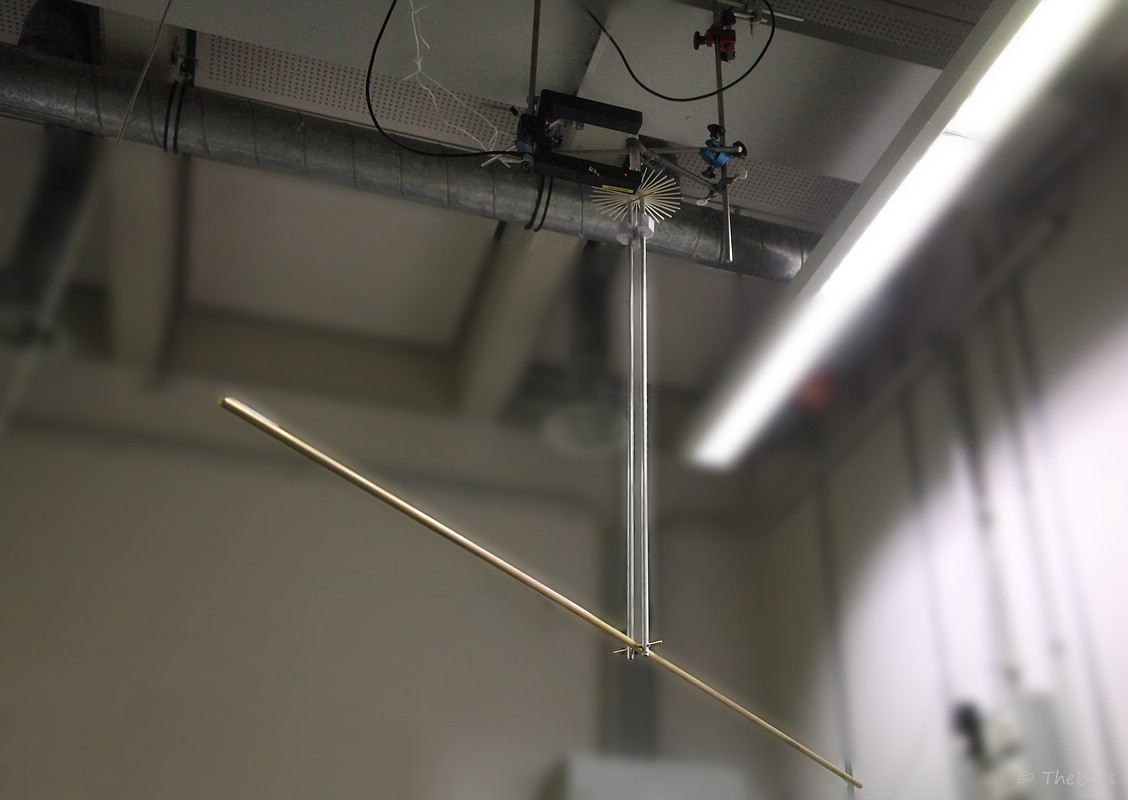
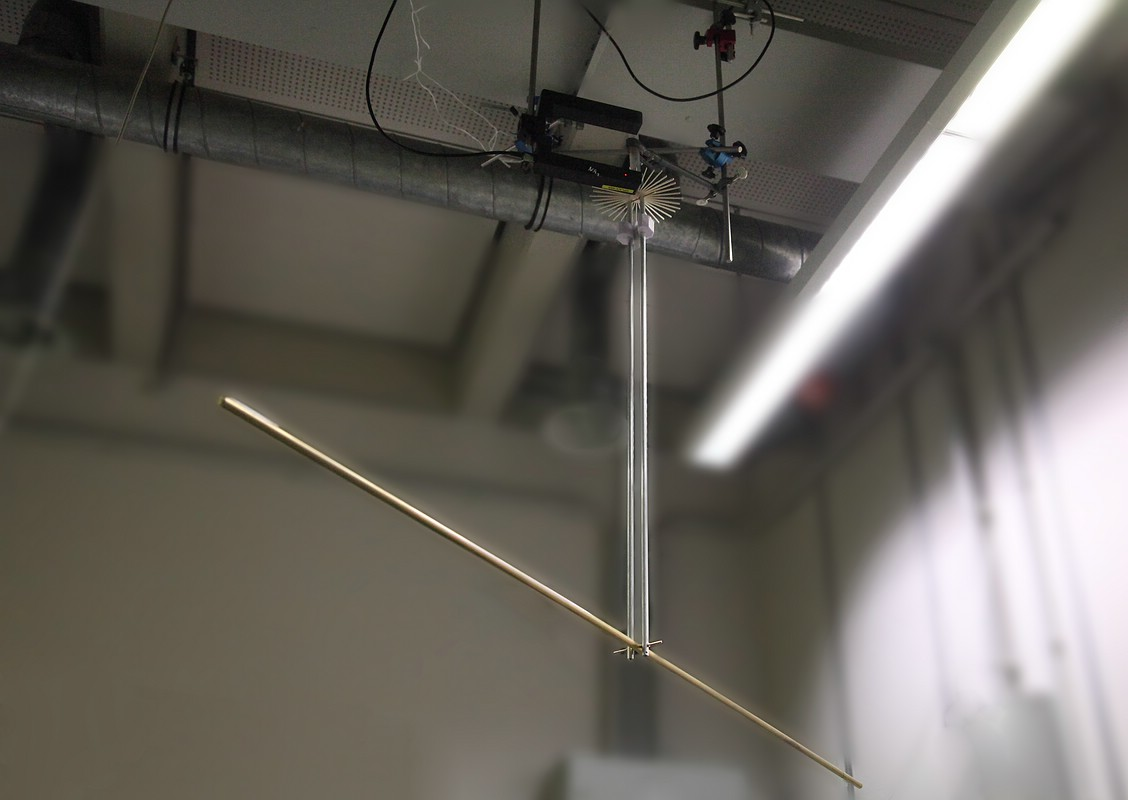
bild fertige platine

Changed region(s): [[0.8378, 0.875, 0.9309, 1.0]]

diff --git a/presentation/presentation.tex b/presentation/presentation.tex
@@ -85,8 +85,8 @@
 \frametitle{Elektronik I}
 \begin{figure}
 \begin{center}
-\includegraphics[width=0.8\textwidth]{./images/prIMG_7253crop.jpg}
-\caption{Fertige Platine}
+\includegraphics[width=0.8\textwidth]{./images/elektronik-final.jpg}
+\caption{Das fertige LED-Spektrometer}
 \end{center}
 \end{figure}
 }
